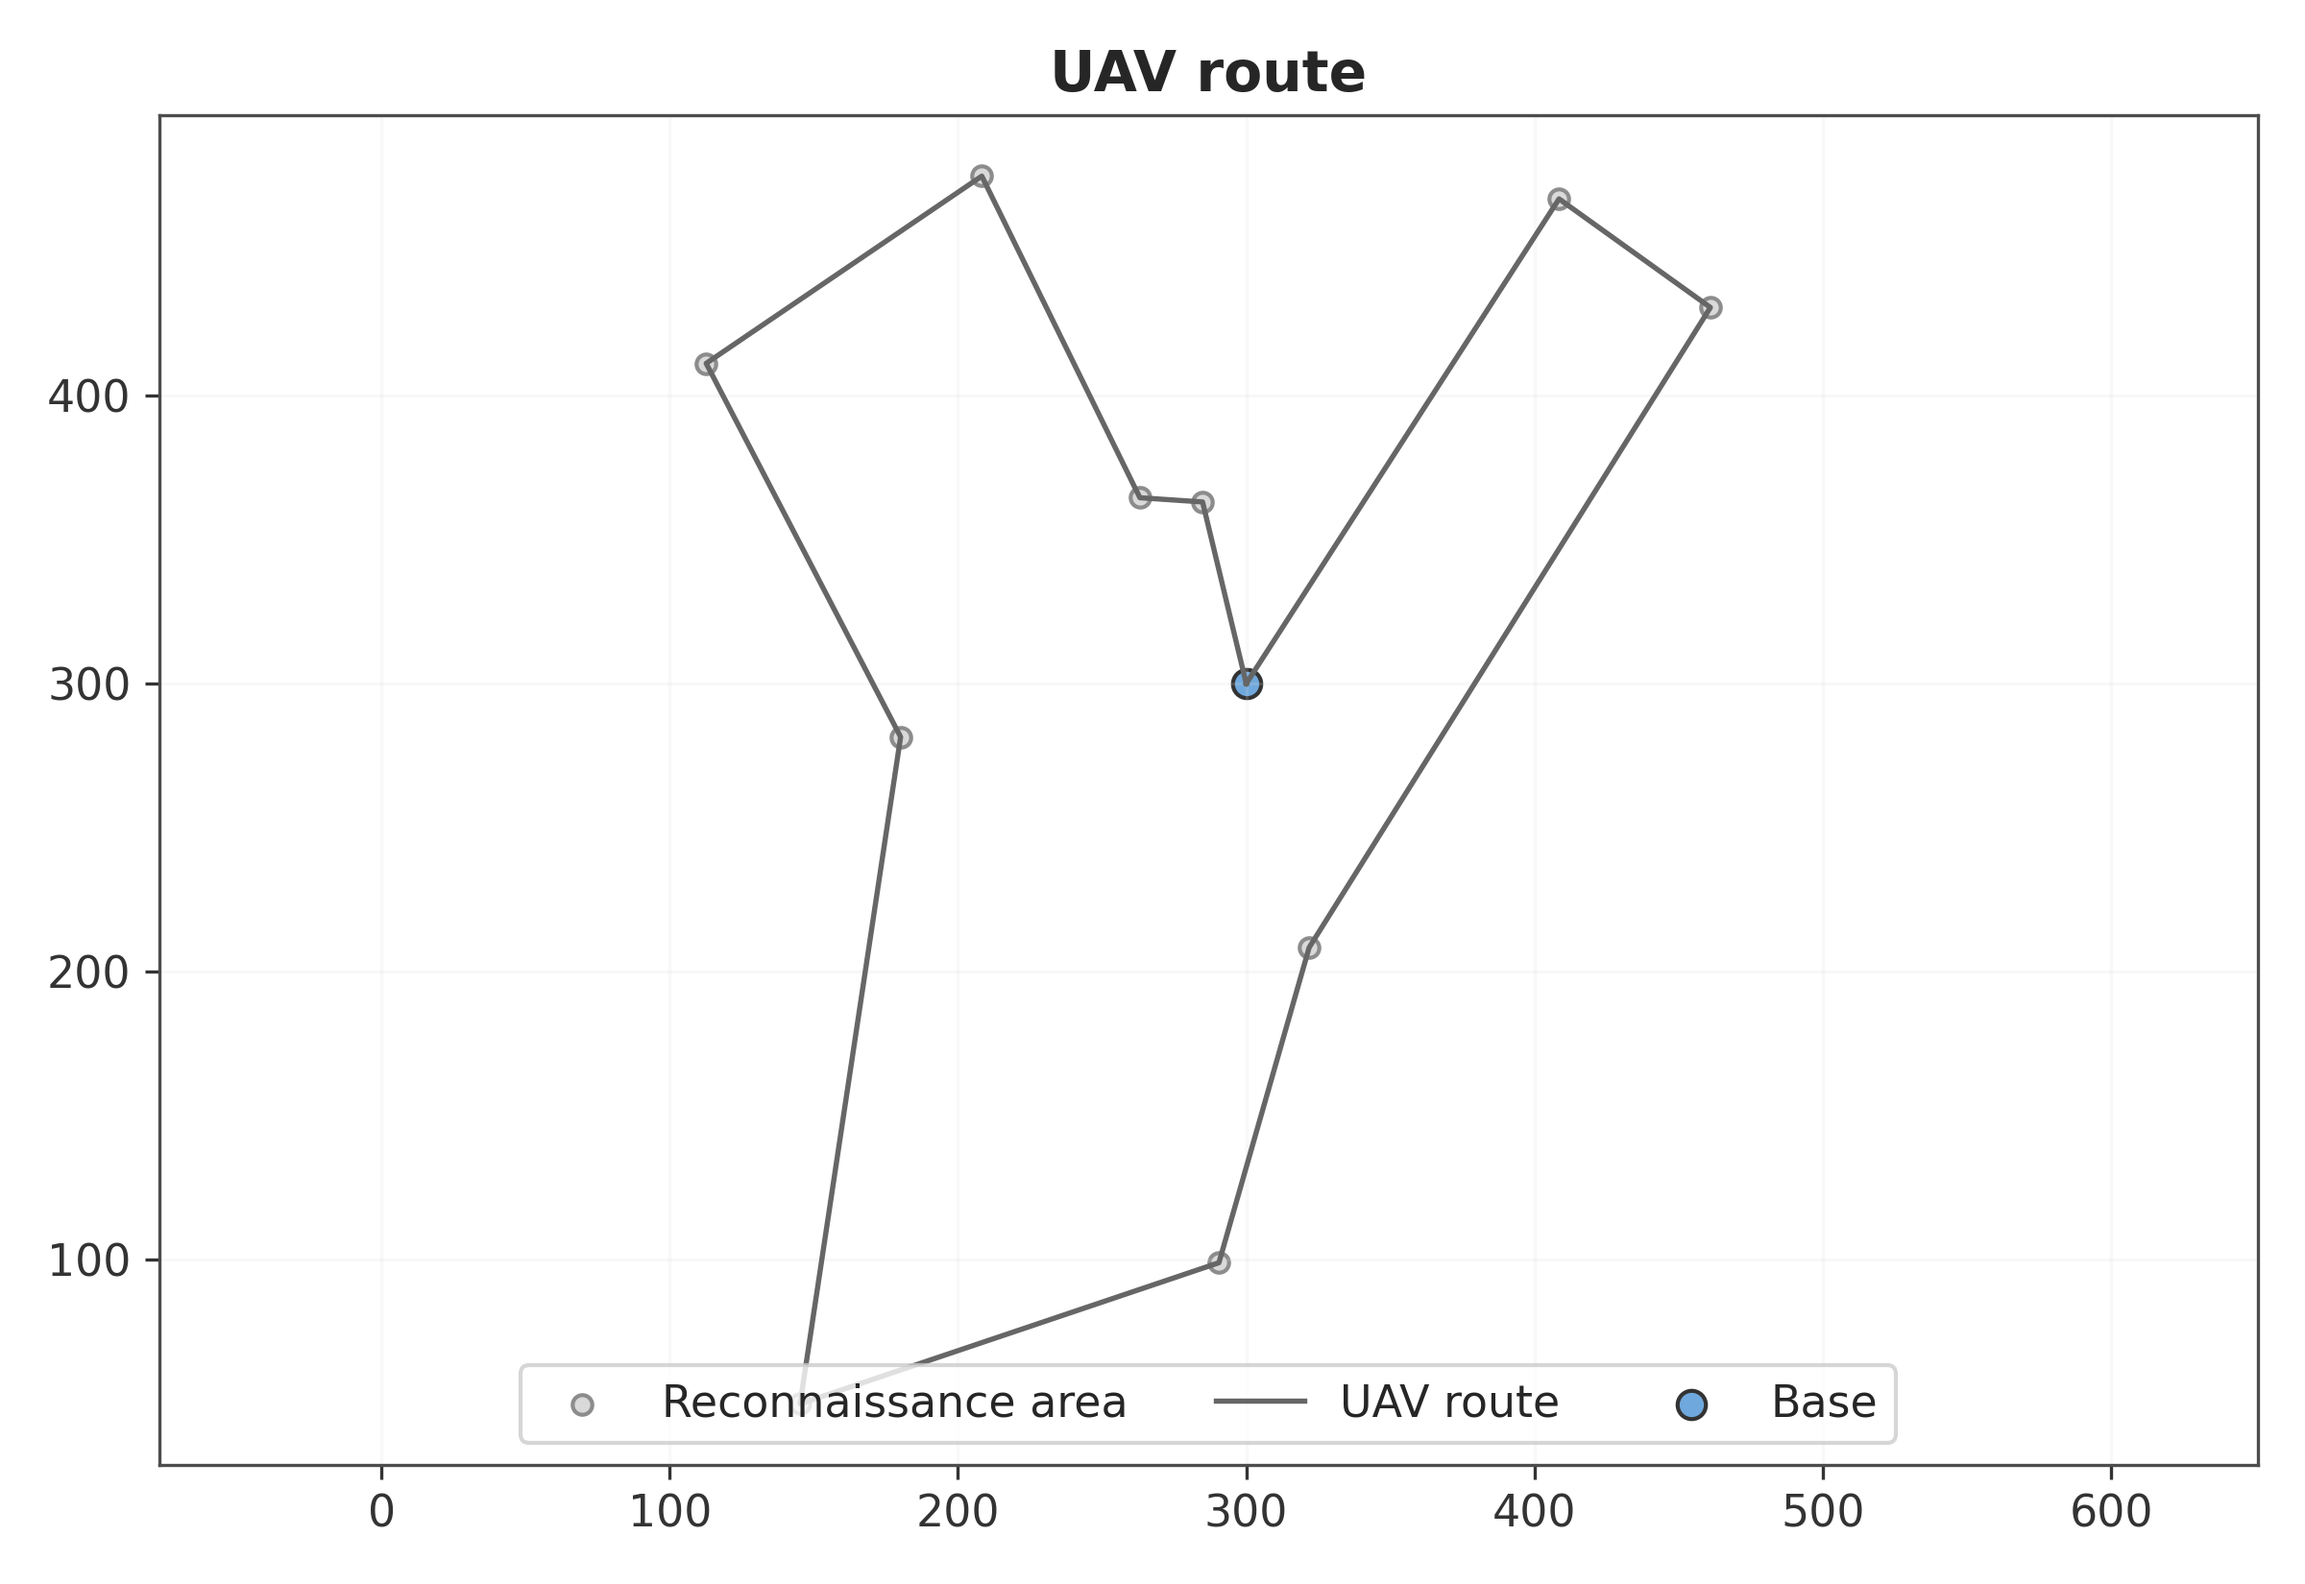
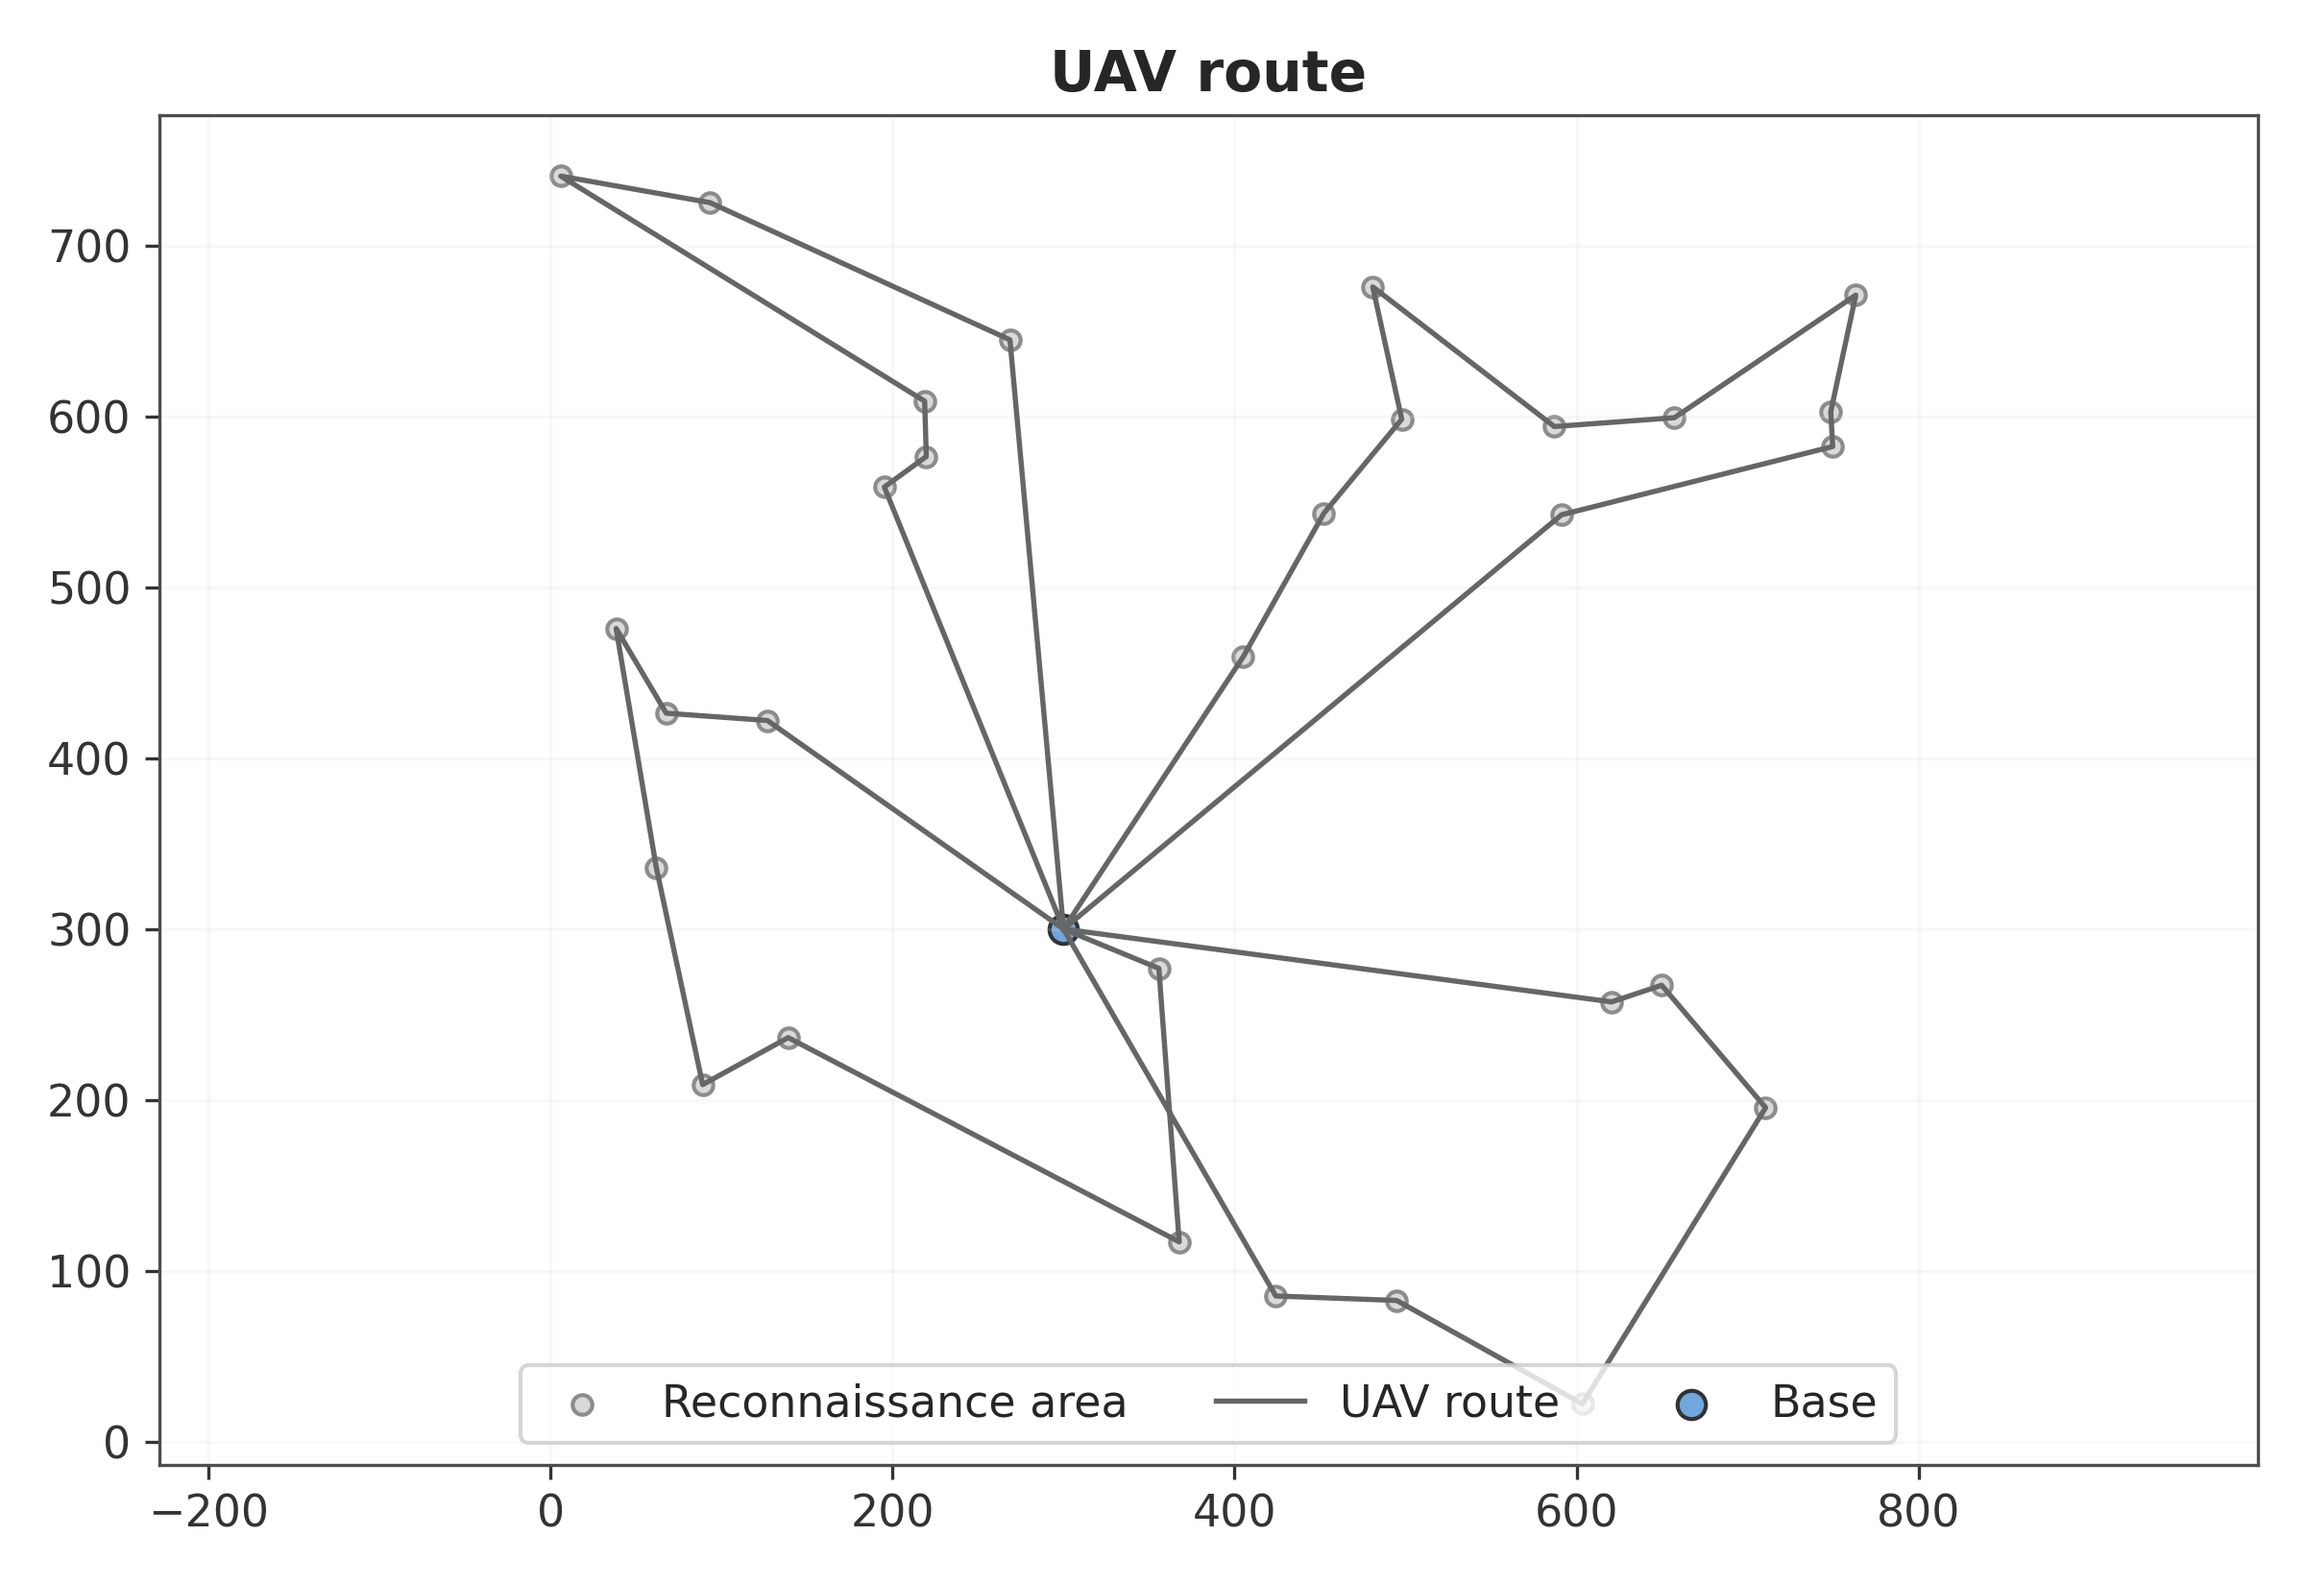
.

diff --git a/src/visualization/routes.py b/src/visualization/routes.py
@@ -177,6 +177,11 @@ def plot_mcv_route(
     plt.savefig(save_path, dpi=300) if save_path else plt.show()
     plt.close()
 
+
+# =========================================================
+# 3) UAV ROUTES (DETAILED)
+# =========================================================
+
 def plot_uav_routes_detailed(
     points: np.ndarray,
     route_1based: np.ndarray,
@@ -186,7 +191,7 @@ def plot_uav_routes_detailed(
     save_path: str | None = None,
 ):
     """
-    Plot detailed UAV routes per UAV (defensive).
+    Plot detailed UAV routes per UAV.
     """
     n_points = points.shape[0]
     depot_id = n_points + 1
@@ -199,24 +204,24 @@ def plot_uav_routes_detailed(
     def _coord(node: int):
         return depot if node == depot_id else points[node - 1]
 
-    uav_routes = assignment.get("uav_routes_nodes", {})
-
-    if uav_routes:
-        for uid, nodes in uav_routes.items():
-            if not nodes:
-                continue
-            xs, ys = zip(*(_coord(int(n)) for n in nodes))
-            ax.plot(xs, ys, lw=1.4, label=f"UAV{uid}")
-
-        ax.legend()
+    for uid, nodes in assignment["uav_routes_nodes"].items():
+        xs, ys = zip(*(_coord(int(n)) for n in nodes))
+        ax.plot(xs, ys, lw=1.4, label=f"UAV{uid}")
 
     ax.set_title(title, fontsize=14, weight="bold")
     ax.axis("equal")
     ax.grid(True, alpha=0.18)
+    ax.legend()
     plt.tight_layout()
 
     plt.savefig(save_path, dpi=300) if save_path else plt.show()
     plt.close()
+
+
+# =========================================================
+# 4) MCV CHARGING (DETAILED)
+# =========================================================
+
 def plot_mcv_charging_detailed(
     points: np.ndarray,
     route_1based: np.ndarray,
@@ -226,7 +231,7 @@ def plot_mcv_charging_detailed(
     save_path: str | None = None,
 ):
     """
-    Plot detailed MCV charging routes (defensive).
+    Plot detailed MCV charging routes.
     """
     n_points = points.shape[0]
     depot_id = n_points + 1
@@ -246,9 +251,7 @@ def plot_mcv_charging_detailed(
 
     colors = plt.cm.tab10.colors
 
-    mcv_points = assignment.get("mcv_charge_points_sorted", {})
-
-    for mcv_id, pts in mcv_points.items():
+    for mcv_id, pts in assignment["mcv_charge_points_sorted"].items():
         if not pts:
             continue
 

diff --git a/src/core/fitness.py b/src/core/fitness.py
@@ -254,7 +254,11 @@ def evaluate_objectives_constraints(
                         objectives[i, 1] += late
 
         constraints[i, :] = constraint_i
-
+        uav_routes_nodes = {}
+        for uid, (L, R) in enumerate(uav_blocks, start=1):
+            # edges [L, R-1] correspond to nodes route[L] -> route[R]
+            nodes = route[L:R + 1].tolist()
+            uav_routes_nodes[uid] = nodes
         mcv_charge_points_sorted = {}
 
         for k in range(1, n_vehicle + 1):
@@ -274,6 +278,7 @@ def evaluate_objectives_constraints(
         assignment_info[i] = {
             "uav_blocks": uav_blocks,
             "uav_id_per_edge": uav_id_per_edge.tolist(),
+            "uav_routes_nodes": uav_routes_nodes,
             "mcv_id_per_edge": population[i, :n_edges].astype(int).tolist(),
             "mcv_charge_points_sorted": mcv_charge_points_sorted,
         }
